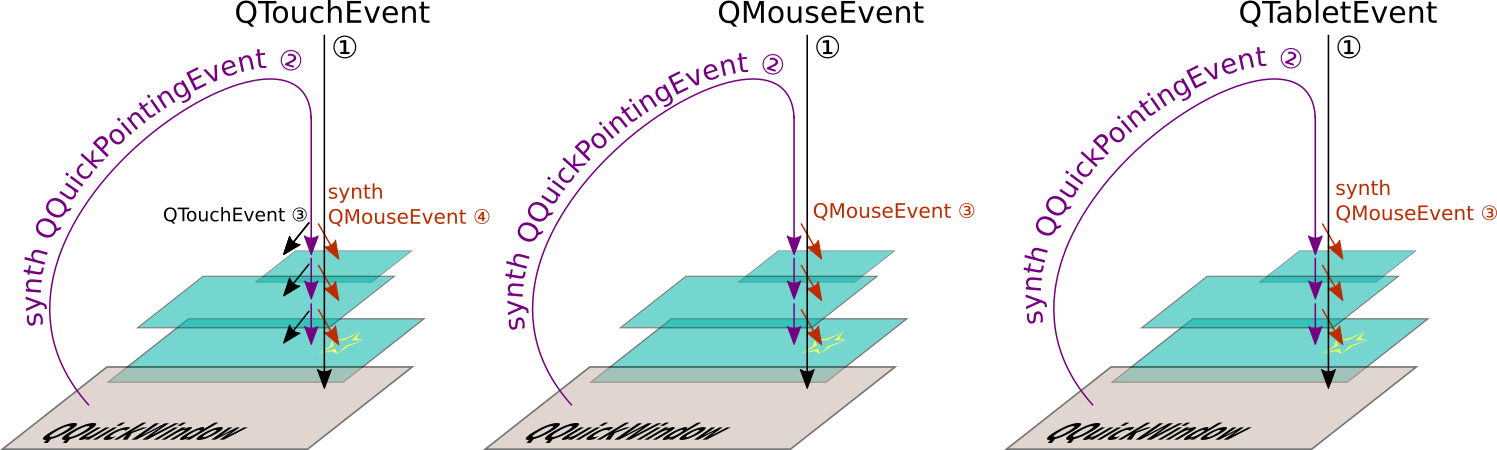
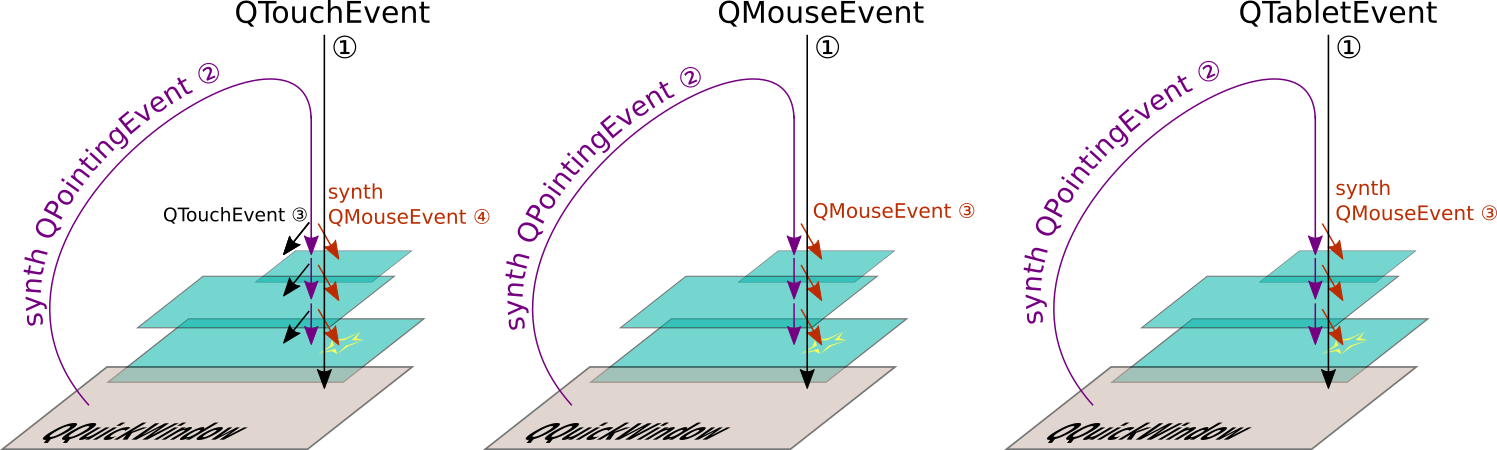
updates for June 2016 Project Fair

diff --git a/presentation/Slides.qml b/presentation/Slides.qml
@@ -20,7 +20,7 @@ Presentation {
         centeredText: "
 Pointer Handlers in Qt Quick
 
-Project Fair April 2016
+Project Fair June 2016
 
 Shawn Rutledge
 shawn.rutledge@qt.io
@@ -31,9 +31,9 @@ ecloud on #qt-labs"
         title: "Long-term Goals"
         content: [
             "make it easy to handle mouse, touch and tablet agnostically",
-            "guarantee that events always have velocity",
-            "plan on unified QPointingEvent delivery in Qt 6: make sure current changes are compatible",
+            "plan on unified QPointerEvent delivery in Qt 6: make sure current changes are compatible",
             "plan on multiple seats/users and support for multiple mice etc. in Qt 6",
+            "guarantee that events always have velocity",
             "proper support for Wacom tablets: draw paths in Qt Quick",
             "remove the need for touch -> mouse synthesis"
         ]
@@ -42,12 +42,11 @@ ecloud on #qt-labs"
     Slide {
         title: "Idea: handler objects"
         content: [
-            "make mouse/touch more like the Keys attached prop",
-            "(but attached properties are limiting, and inefficient)",
-//            "no need to bind the geometry: proxy for the attachee Item",
+            "the old core idea: make mouse/touch more like the Keys attached prop",
+            "but you can't have more than one attached object of a given type per Item... so let's have child objects",
             "easy stuff is easy",
-            "lots of small, understandable handlers instead of monolithic MouseArea etc.",
-            "preferred: handlers for gestures (tap, drag, pinch etc.)",
+            "multiple small, understandable handlers instead of monolithic MouseArea etc.",
+            "preferred: declarative handlers for gestures (tap, drag, pinch etc.)",
             "but also: some for mouse only, some for touch only, just in case",
             "it's completely different, so minimizes compatibility risks"
         ]
@@ -55,7 +54,7 @@ ecloud on #qt-labs"
 
     CodeSlideInteractive {
         title: "Plain PointerHandler"
-        sourceFile: "/home/rutledge/dev/qt5/qtdeclarative/tests/manual/pointer/pointer.qml"
+        sourceFile: "/home/rutledge/dev/qt5/qtdeclarative/tests/manual/pointer/pointerHandler.qml"
     }
 
     CodeSlideInteractive {
@@ -63,41 +62,52 @@ ecloud on #qt-labs"
         sourceFile: "/home/rutledge/dev/qt5/qtdeclarative/tests/manual/pointer/joystick.qml"
     }
 
+    CodeSlideInteractive {
+        title: "TapHandler"
+        sourceFile: "/home/rutledge/dev/qt5/qtdeclarative/tests/manual/pointer/tapHandler.qml"
+    }
+
+    CodeSlideInteractive {
+        title: "MouseHandler"
+        sourceFile: "examples/mouseHandler.qml"
+    }
+
     Slide {
         title: "Touch Event Delivery in Qt <= 5.7"
         content: [
-            "each item under the touchpoint gets a touch event\n(and ignores by default)",
+            "each item under the touchpoint gets a touch event (and ignores by default)",
             "if not accepted, the item gets a synthetic mouse event",
-            "continue with next item (in reverse paint order)\nif still not accepted"
-//            "problem: need to duplicate a massive amount of logic to handle both mouse and touch",
+            "continue with next item (in reverse paint order) if still not accepted",
+            "problem: need to duplicate a massive amount of logic to handle both mouse and touch",
+            "grabbing and stealing across real touch events and synth-mouse events is problematic"
 //            "tablet events? fuhgetaboutit"
         ]
         Image {
             anchors.right: parent.right
             anchors.verticalCenter: parent.verticalCenter
-            source: "/home/rutledge/dev/presentations/projectfair-201604-pointerhandlers/presentation/images/touch_mouse_event.png"
+            source: "/home/rutledge/dev/presentations/projfair-201606-pointerhandlers/presentation/images/touch_mouse_event.png"
         }
     }
 
     ImageSlide {
         title: "Existing QEvent hierarchy"
-        source: "/home/rutledge/dev/presentations/projectfair-201604-pointerhandlers/presentation/images/event-hierarchy-before.png"
+        source: "/home/rutledge/dev/presentations/projfair-201606-pointerhandlers/presentation/images/event-hierarchy-before.png"
     }
 
     ImageSlide {
         title: "Many parallel event delivery paths (and some missing)"
-        source: "/home/rutledge/dev/presentations/projectfair-201604-pointerhandlers/presentation/images/event-delivery-before.png"
+        source: "/home/rutledge/dev/presentations/projfair-201606-pointerhandlers/presentation/images/event-delivery-before.png"
     }
 
     ImageSlide {
-        title: "Possible hierarchy for Qt 6"
-        source: "/home/rutledge/dev/presentations/projectfair-201604-pointerhandlers/presentation/images/event-hierarchy-qt6.png"
+        title: "WIP hierarchy for QtQuick 2.8 Tech Preview"
+        source: "/home/rutledge/dev/presentations/projfair-201606-pointerhandlers/presentation/images/event-hierarchy-qt5.8.png"
     }
 
     Slide {
-        title: "Simulate it for now: QQuickPointerEvent"
+        title: "Simulate it for now: QPointerEvent hierarchy in QtQuick"
         content: [
-            "preferred event for Items is QQuickPointerEvent (synthetic for now)",
+            "preferred event for Items is QPointerEvent (synthetic for now)",
             "multi-touch, tablet and mouse handling are agnostic until you need to distinguish them"
         ]
         Image {
@@ -107,7 +117,7 @@ ecloud on #qt-labs"
                 bottom: parent.bottom
             }
             fillMode: Image.PreserveAspectFit
-            source: "/home/rutledge/dev/presentations/projectfair-201604-pointerhandlers/presentation/images/pointerevent-delivery.png"
+            source: "/home/rutledge/dev/presentations/projfair-201606-pointerhandlers/presentation/images/pointerevent-delivery.png"
         }
     }
 
@@ -121,33 +131,33 @@ ecloud on #qt-labs"
             Image {
                 id: phClassHier
                 fillMode: Image.PreserveAspectFit
-                source: "/home/rutledge/dev/presentations/projectfair-201604-pointerhandlers/presentation/images/pointer-handlers-classes.png"
-//                source: "/home/rutledge/dev/presentations/projectfair-201604-pointerhandlers/presentation/images/class_q_quick_pointer_handler__inherit__graph.png"
+                source: "/home/rutledge/dev/presentations/projfair-201606-pointerhandlers/presentation/images/pointer-handlers-classes.png"
+//                source: "/home/rutledge/dev/presentations/projfair-201606-pointerhandlers/presentation/images/class_q_quick_pointer_handler__inherit__graph.png"
             }
         }
     }
 
-    TextSlide {
-        title: "QQuickPointerEvent"
-        sourceFile: "/home/rutledge/dev/qt5/qtdeclarative/src/quick/items/qquickevents_p_p.h"
-    }
+//    TextSlide {
+//        title: "QQuickPointerEvent"
+//        sourceFile: "/home/rutledge/dev/qt5/qtdeclarative/src/quick/items/qquickevents_p_p.h"
+//    }
 
-    Slide {
-        title: "Velocity"
-        content: [
-            "every event should have valid velocity values",
-            "QTouchEvent already has velocity but it is almost never valid (but TUIO has it)",
-            "should we synthesize it in the platform plugins? or cross-platform?",
-            "but QMouseEvent and QTabletEvent do not have velocity...should we add it?",
-            "or, synthesize it when creating QQuickPointerEvents",
-            "or, use a generic VelocityCalculator in QML"
-        ]
-    }
+//    Slide {
+//        title: "Velocity"
+//        content: [
+//            "every event should have valid velocity values",
+//            "QTouchEvent already has velocity but it is almost never valid (but TUIO has it)",
+//            "should we synthesize it in the platform plugins? or cross-platform?",
+//            "but QMouseEvent and QTabletEvent do not have velocity...should we add it?",
+//            "or, synthesize it when creating QQuickPointerEvents",
+//            "or, use a generic VelocityCalculator in QML"
+//        ]
+//    }
 
-    TextSlide {
-        title: "Fling Animation using VelocityCalculator"
-        sourceFile: "/home/rutledge/dev/presentations/projectfair-201604-pointerhandlers/presentation/fling-animation-with-velocity-calculator.qml"
-    }
+//    TextSlide {
+//        title: "Fling Animation using VelocityCalculator"
+//        sourceFile: "/home/rutledge/dev/presentations/projfair-201606-pointerhandlers/presentation/fling-animation-with-velocity-calculator.qml"
+//    }
 
 //    CodeSlideInteractive {
 //        title: "Events, Pressed and Hover"
